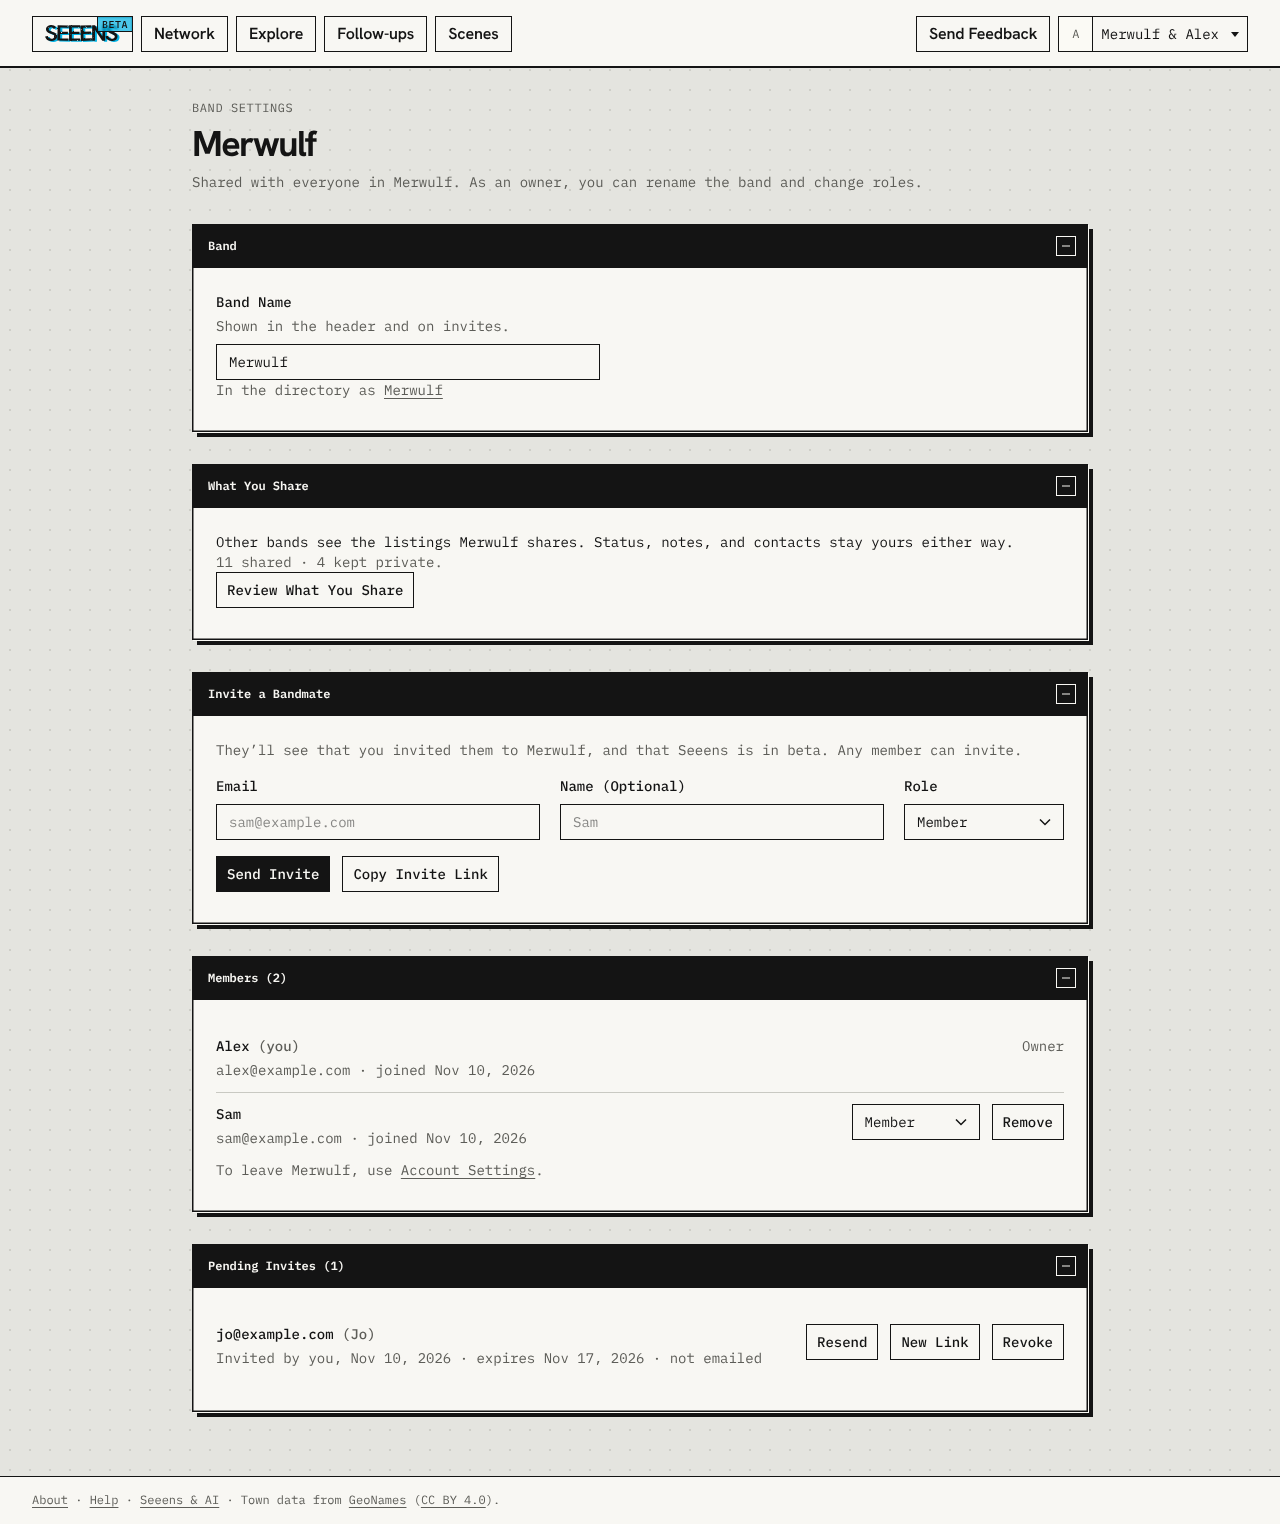
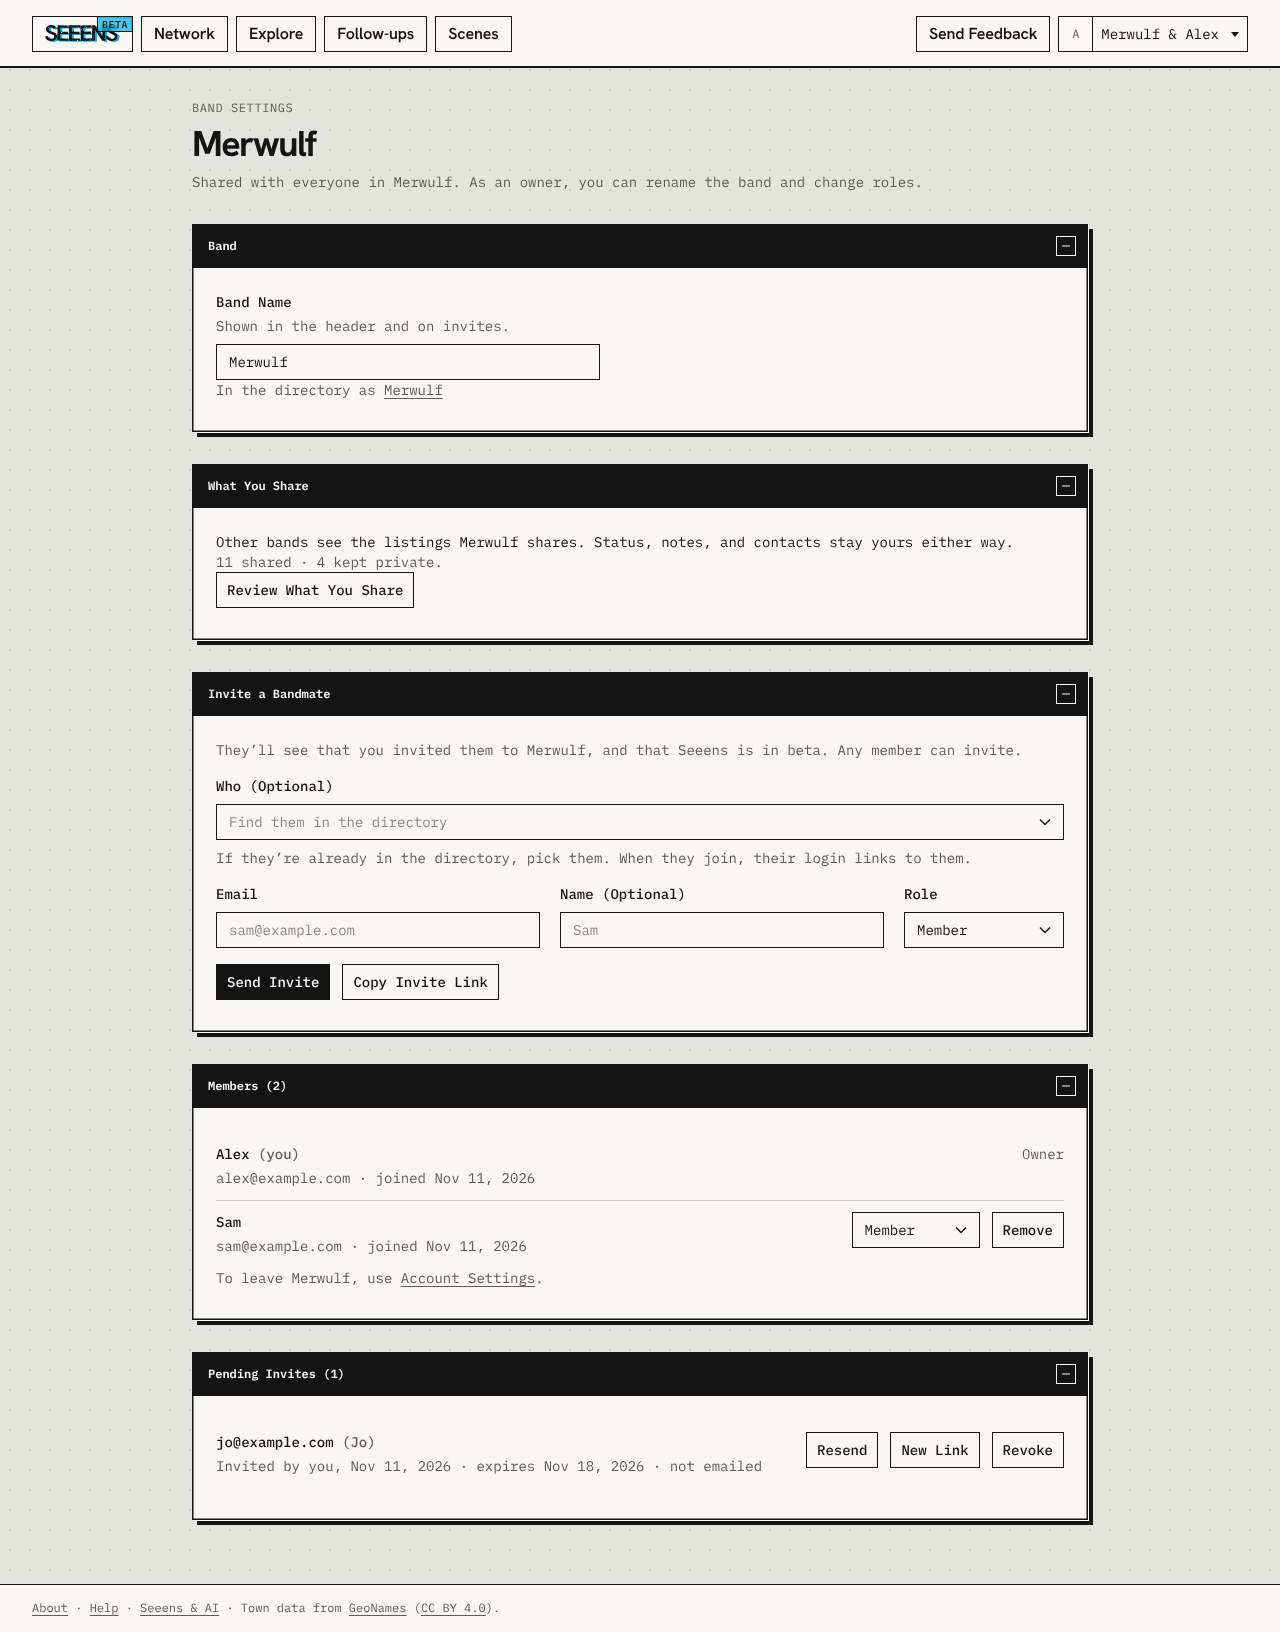
Invite a bandmate who's already in the directory (#277)
Closes #225. Band Settings > Invite a Bandmate has a Who picker: the
band's members first (even ones another band kept private), then its own
people, then shared ones, never anyone already linked to an account.
Picking one fills in their name, and their email when the band saved
one. Joining links their login to that person (accept_invite already
does this for invites that name one), so they don't make a copy.

Claude-Session: https://claude.ai/code/session_01SMP6NnyPkRALtU7G1T7uNS

diff --git a/src/components/band-settings.tsx b/src/components/band-settings.tsx
@@ -1,6 +1,7 @@
 "use client";
 
 import { useActionState, useRef, useState, useTransition } from "react";
+import { Combobox } from "@/components/combobox";
 import { noAutofill } from "@/lib/no-autofill";
 import { offline } from "@/lib/offline";
 import {
@@ -177,13 +178,70 @@ export function MemberControls({ userId, name, role }: { userId: string; name: s
   );
 }
 
-export function InviteForm({ canInviteOwners, bandName }: { canInviteOwners: boolean; bandName: string }) {
+export type InvitablePerson = { id: string; name: string; email: string | null; inBand: boolean };
+
+// Invite by email or link. Picking who they are in the directory (#225)
+// fills in their name (and email, when the band saved one), and joining
+// links their login to that person, so they don't make a copy of themselves.
+export function InviteForm({
+  canInviteOwners,
+  bandName,
+  people,
+}: {
+  canInviteOwners: boolean;
+  bandName: string;
+  people: InvitablePerson[];
+}) {
   const [state, action, pending] = useActionState(createInvite, {});
+  const [person, setPerson] = useState("");
+  const [email, setEmail] = useState("");
+  const [name, setName] = useState("");
+  // A fresh form after each invite (the picker included).
+  const [round, setRound] = useState(0);
+  const [lastState, setLastState] = useState(state);
+  if (state !== lastState) {
+    setLastState(state);
+    if (state.done) {
+      setPerson("");
+      setEmail("");
+      setName("");
+      setRound((r) => r + 1);
+    }
+  }
+
+  function pick(id: string) {
+    setPerson(id);
+    const p = people.find((x) => x.id === id);
+    if (!p) return;
+    setName(p.name);
+    if (p.email) setEmail(p.email);
+  }
+
   return (
     <form action={action} className="flex flex-col gap-4">
       <p className="text-muted">
         They&rsquo;ll see that you invited them to {bandName}, and that Seeens is in beta. Any member can invite.
       </p>
+      {people.length ? (
+        <div className="flex flex-col gap-2">
+          <Combobox
+            key={round}
+            label="Who (Optional)"
+            options={people.map((p) => ({
+              value: p.id,
+              label: p.name,
+              hint: [p.inBand ? `In ${bandName}` : null, p.email ? "Email saved" : null].filter(Boolean).join(" · "),
+            }))}
+            multiple={false}
+            placeholder="Find them in the directory"
+            onChange={(values) => pick(values[0] ?? "")}
+          />
+          <p className="text-sm text-muted">
+            If they&rsquo;re already in the directory, pick them. When they join, their login links to them.
+          </p>
+        </div>
+      ) : null}
+      <input type="hidden" name="person_id" value={person} />
       <div className="grid gap-5 sm:grid-cols-[minmax(0,1fr)_minmax(0,1fr)_10rem]">
         <div className="flex flex-col gap-2">
           <label htmlFor="invite-email" className="label">
@@ -196,13 +254,24 @@ export function InviteForm({ canInviteOwners, bandName }: { canInviteOwners: boo
             type="email"
             className="field"
             placeholder="sam@example.com"
+            value={email}
+            onChange={(e) => setEmail(e.target.value)}
           />
         </div>
         <div className="flex flex-col gap-2">
           <label htmlFor="invite-name" className="label">
             Name (Optional)
           </label>
-          <input {...noAutofill} id="invite-name" name="name" className="field" placeholder="Sam" maxLength={80} />
+          <input
+            {...noAutofill}
+            id="invite-name"
+            name="name"
+            className="field"
+            placeholder="Sam"
+            maxLength={80}
+            value={name}
+            onChange={(e) => setName(e.target.value)}
+          />
         </div>
         <div className="flex flex-col gap-2">
           <label htmlFor="invite-role" className="label">

diff --git a/src/lib/band/actions.ts b/src/lib/band/actions.ts
@@ -101,6 +101,8 @@ export async function createInvite(_prev: BandState, formData: FormData): Promis
         .toLowerCase();
   const name = String(formData.get("name") ?? "").trim();
   const role = formData.get("role") === "owner" ? "owner" : "member";
+  // Who they are in the directory (#225), if picked: joining links them.
+  const personId = String(formData.get("person_id") ?? "");
   if (!asLink && !/^[^\s@]+@[^\s@]+\.[^\s@]+$/.test(email)) {
     return {
       error: "Enter an email address, like sam@example.com. Or copy an invite link instead.",
@@ -113,6 +115,7 @@ export async function createInvite(_prev: BandState, formData: FormData): Promis
     p_email: asLink ? null : email,
     p_name: name || null,
     p_role: role,
+    p_person_id: UUID.test(personId) ? personId : null,
   });
   const row = data?.[0];
   if (error || !row) {
@@ -123,6 +126,9 @@ export async function createInvite(_prev: BandState, formData: FormData): Promis
         error: `${email} asked not to get email from Seeens. Copy a link and send it yourself instead.`,
       };
     if (msg.includes("only owners")) return { error: "Only owners can invite an owner." };
+    if (msg.includes("someone else"))
+      return { error: "That person is already linked to someone's account. Pick another, or leave it blank." };
+    if (msg.includes("not a person here")) return { error: "That person can't be picked. Refresh the page." };
     if (msg.includes("too many"))
       return {
         error: "That's a lot of open invites. Wait for some to be used or revoke a few, then try again.",

diff --git a/src/app/(app)/band/page.tsx b/src/app/(app)/band/page.tsx
@@ -31,7 +31,7 @@ async function Band() {
   const [user, us, supabase] = await Promise.all([getCurrentUser(), getUsConnection(), createClient()]);
   const ws = membership.workspaceId;
   const owner = membership.role === "owner";
-  const [{ data: members }, invites, { count: shared }, { count: kept }] = await Promise.all([
+  const [{ data: members }, invites, { count: shared }, { count: kept }, { data: people }] = await Promise.all([
     supabase.rpc("band_members", { p_workspace_id: ws }),
     loadPendingInvites(ws),
     supabase
@@ -44,6 +44,7 @@ async function Band() {
       .select("id", { count: "exact", head: true })
       .eq("workspace_id", ws)
       .eq("keep_private", true),
+    supabase.rpc("invitable_bandmates", { p_workspace_id: ws }),
   ]);
   const tz = membership.timeZone;
 
@@ -100,7 +101,16 @@ async function Band() {
       </ProfilePanel>
 
       <ProfilePanel id="band-invite" title="Invite a Bandmate">
-        <InviteForm canInviteOwners={owner} bandName={membership.workspaceName} />
+        <InviteForm
+          canInviteOwners={owner}
+          bandName={membership.workspaceName}
+          people={(people ?? []).map((p) => ({
+            id: p.connection_id,
+            name: p.name,
+            email: p.email,
+            inBand: p.in_band,
+          }))}
+        />
       </ProfilePanel>
 
       <ProfilePanel id="band-members" title={`Members (${members?.length ?? 0})`}>

diff --git a/src/lib/supabase/database.types.ts b/src/lib/supabase/database.types.ts
@@ -394,7 +394,9 @@ isOneToOne: false
           }
           Functions: {
             "create_invite":
-{ Args: { "p_workspace_id": string,"p_email": string | null,"p_name": string | null,"p_role": Database["public"]["Enums"]["member_role"] }; Returns: { "invite_id": string,"token": string,"existing": boolean,"first_sent_by": string | null }[] },
+{ Args: { "p_workspace_id": string,"p_email": string | null,"p_name": string | null,"p_role": Database["public"]["Enums"]["member_role"],"p_person_id"?: string | null }; Returns: { "invite_id": string,"token": string,"existing": boolean,"first_sent_by": string | null }[] },
+            "invitable_bandmates":
+{ Args: { "p_workspace_id": string }; Returns: { "connection_id": string,"name": string,"email": string | null,"in_band": boolean }[] },
             "renew_invite_link":
 { Args: { "p_invite_id": string }; Returns: string },
             "mark_invite_sent":

diff --git a/README.md b/README.md
@@ -167,7 +167,7 @@ npx supabase db push --linked
 
 Seeens is invite only. App admins invite each band from **Invite Bands** in the account menu (`/admin/bands`), or with the **Invite to Seeens** button on any band listing nobody has claimed yet: pick the band's listing in the directory, or type its name if nobody's added it yet, and add its first owner's email. The owner gets an invite (emailed when email is set up, otherwise a link to send yourself), makes their account on the invite page, and their band claims the listing. A claimed listing shows "Uses Seeens"; the band that added it keeps its own notes and history on it, and the claimed band's members can fix its details (name, town, links, what they can help with), logged as theirs. It stays shared. Bands still waiting on their owner show on the Bands page, with a New Link button if the first one runs out. New members get **Getting Started** on Network, one step at a time: start with bands you might know (bands that already have yours in their network, then shared bands in your town, each with a status to pick right there; 3 in the network checks it off), fill in the band's page, find yourself, and invite bandmates. Each step checks itself off, Skip for Now moves to the next, and each person can put it away. App admins can preview it as a new band sees it from the account menu (`/?preview=getting-started`); nothing picked there saves. People can be in more than one band: the account menu lists their bands under Band, and picking one switches to it (remembered on that browser).
 
-Everyone else joins from **Band Settings** (account menu > Band Settings). Any member can invite by email or copy a link; only owners can invite owners. Links work once, for 7 days. Someone new makes their account on the invite page, so public sign-ups stay turned off in the Supabase auth settings. Owners change roles, remove members, and rename the band there too, and a band always keeps an owner. Members leave from Account Settings. Each member can link their login to their person in the directory (Account Settings > You > Your Page): pick themselves from any band's people (another band may already have added them), or make a page that's added to the band. One person per account: linking fills in their other bands too. Linked from another band, the person stays with the band that added it, and they can fix their own details there. Linked people show "Uses Seeens" on the band's page, and Your Page appears in the account menu.
+Everyone else joins from **Band Settings** (account menu > Band Settings). Any member can invite by email or copy a link; only owners can invite owners. If the bandmate is already in the directory, pick them under Who: their name (and email, if the band saved one) fills in, and joining links their login to that person, so they don't end up with a copy. The band's members come first, even ones another band kept private. Links work once, for 7 days. Someone new makes their account on the invite page, so public sign-ups stay turned off in the Supabase auth settings. Owners change roles, remove members, and rename the band there too, and a band always keeps an owner. Members leave from Account Settings. Each member can link their login to their person in the directory (Account Settings > You > Your Page): pick themselves from any band's people (another band may already have added them), or make a page that's added to the band. One person per account: linking fills in their other bands too. Linked from another band, the person stays with the band that added it, and they can fix their own details there. Linked people show "Uses Seeens" on the band's page, and Your Page appears in the account menu.
 
 Invites and account deletion need server-only env vars in Vercel (never `NEXT_PUBLIC_`, never in the repo):
 
